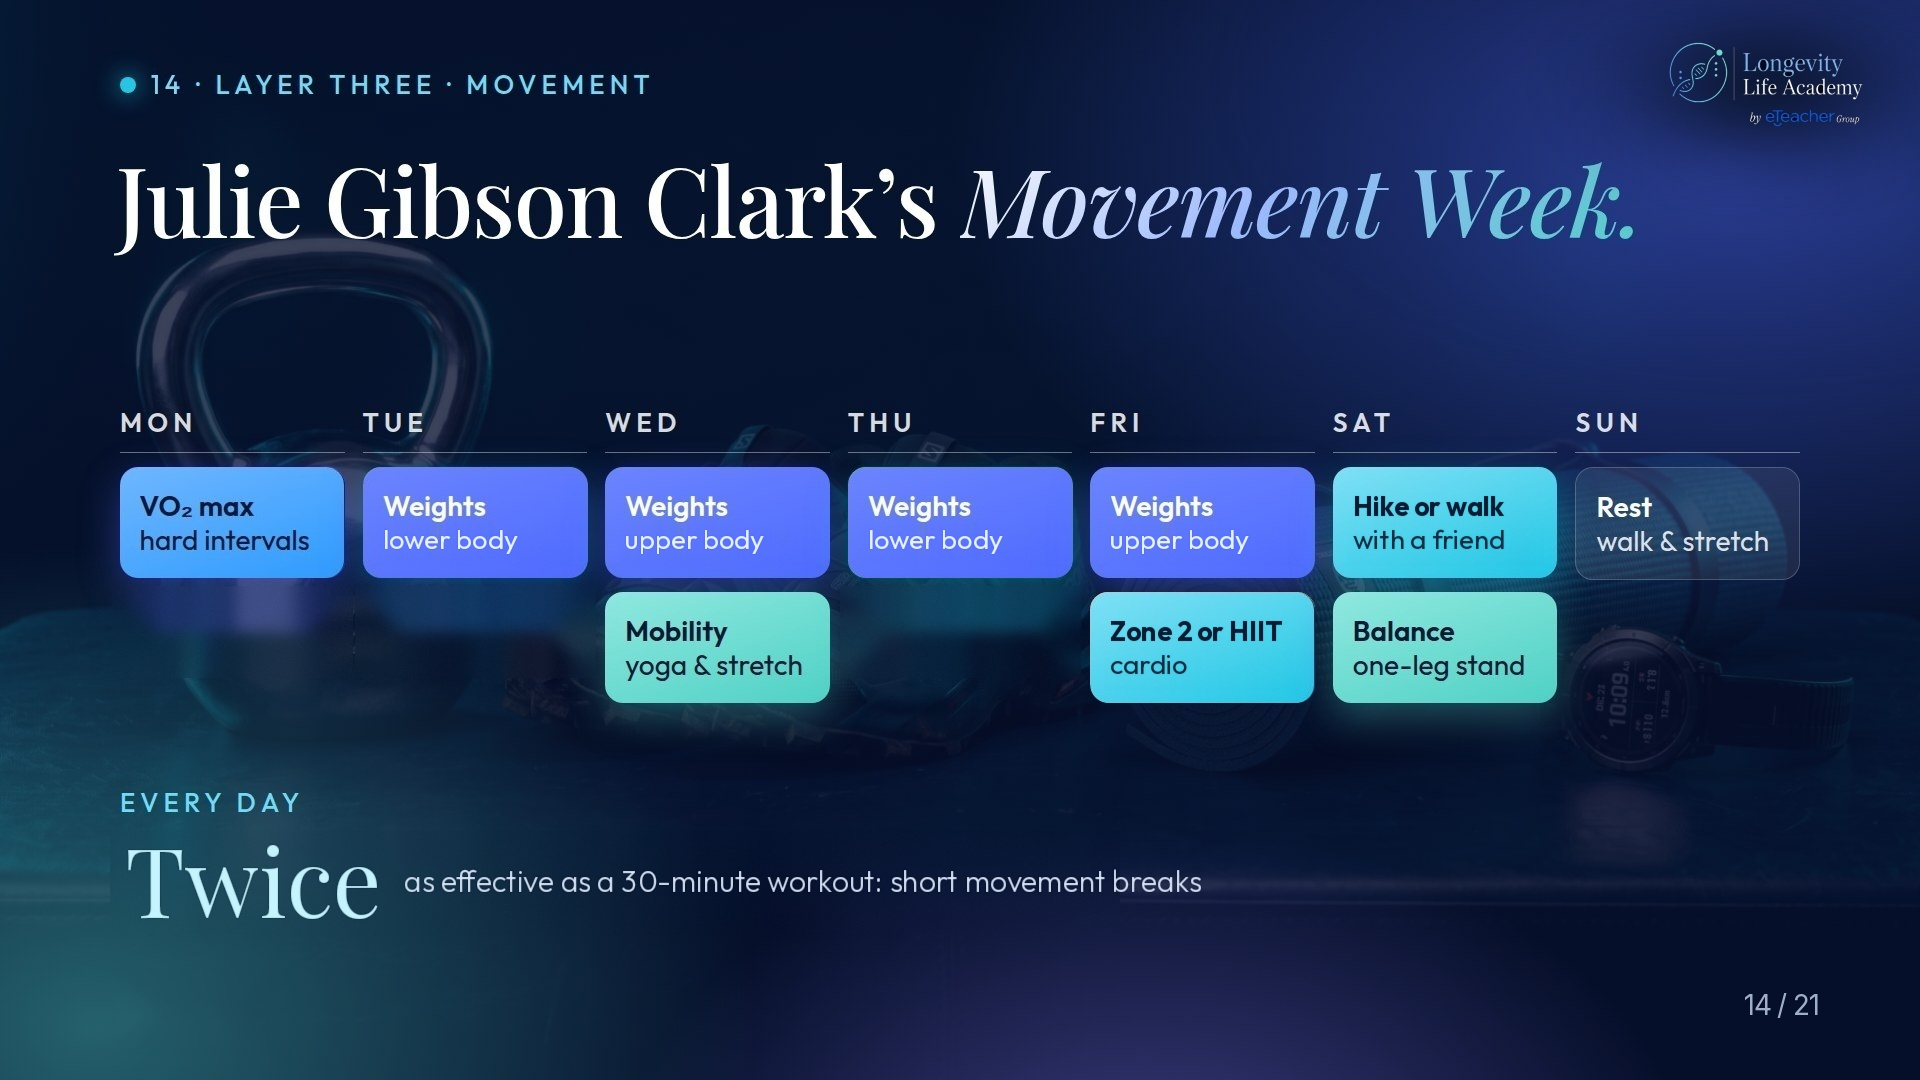
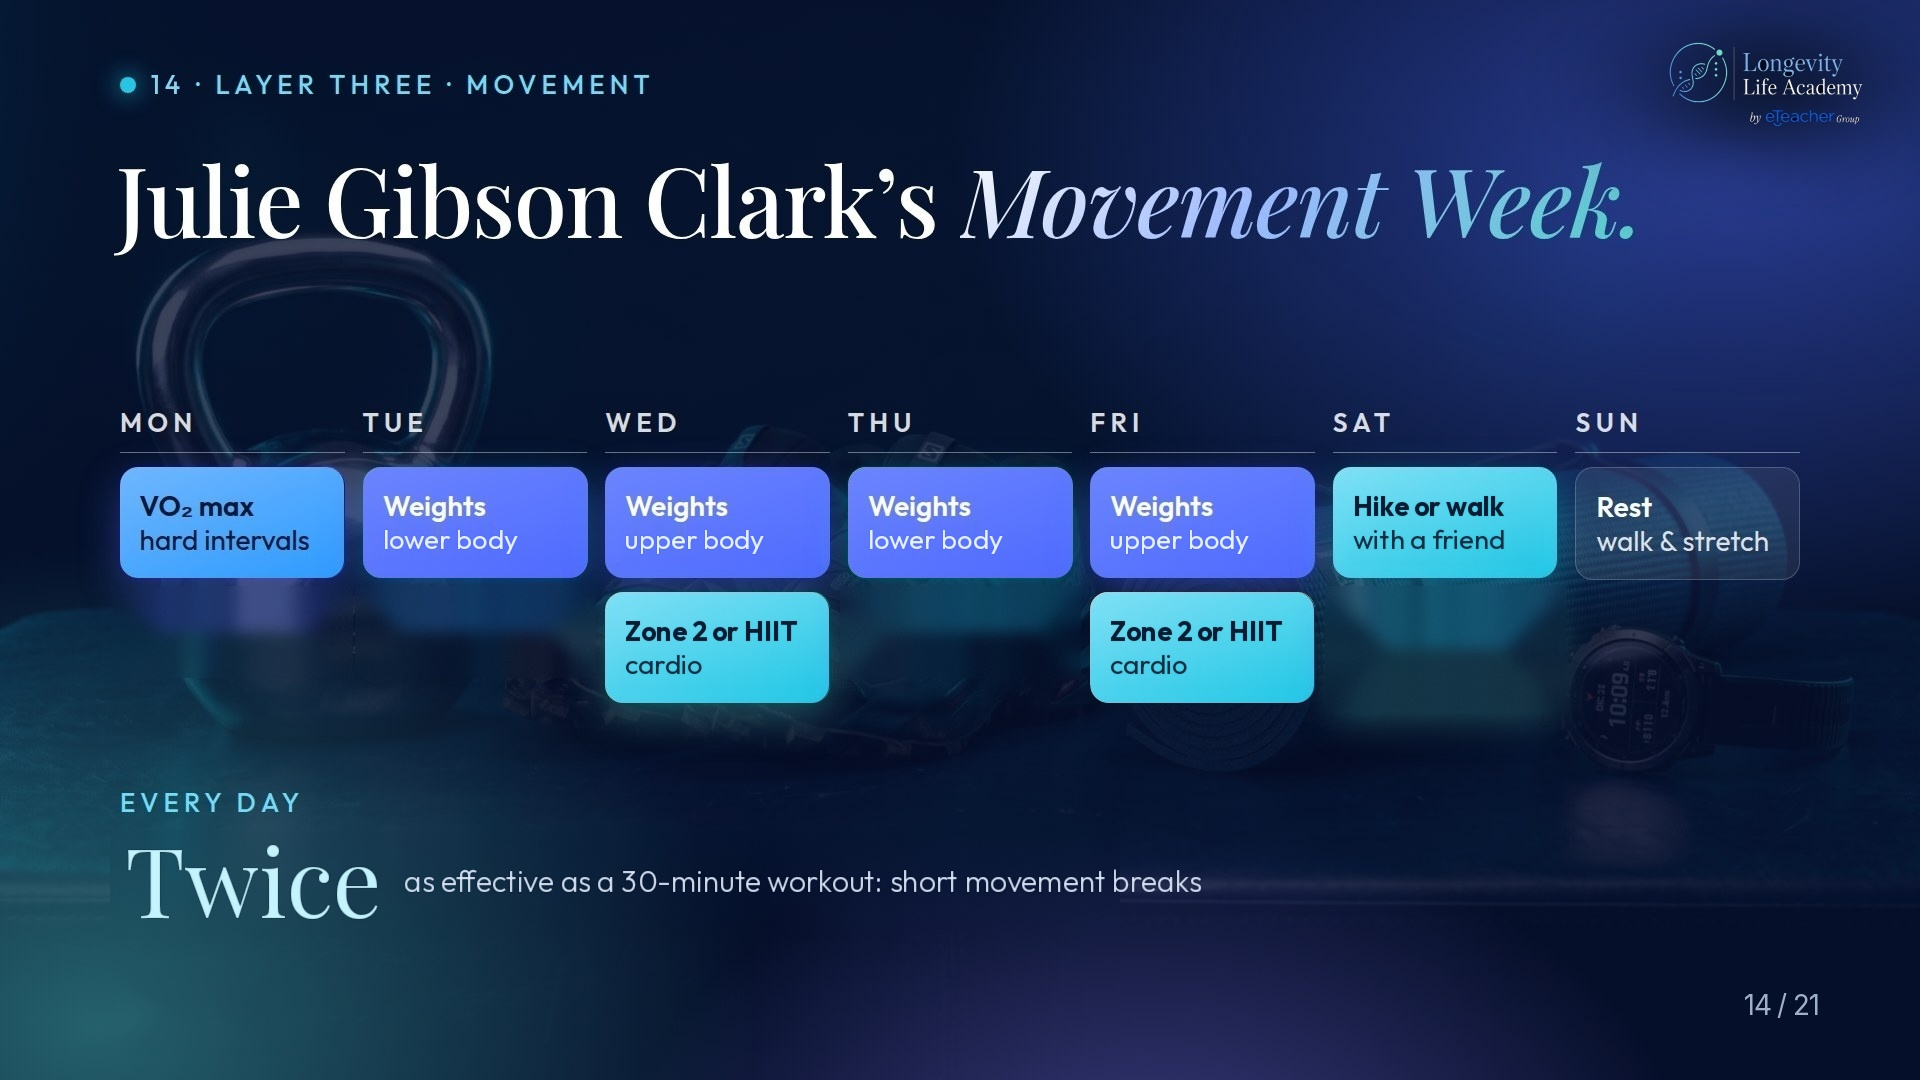
v46 slide 14: script-only week (Wed Zone 2 or HIIT back, no Mobility/Balance tiles, no sauna)

Changed region(s): [[0.6875, 0.55, 0.8125, 0.6722], [0.3125, 0.55, 0.4375, 0.6722]]

diff --git a/slide-canvas/v46/corrections.js b/slide-canvas/v46/corrections.js
@@ -10,25 +10,25 @@ function change(n,src,title,note){
 function noOptions(n){slot(n).querySelector('.opts')?.remove();}
 
 // V45 renumbered copies of the original images (only the baked-in counter changed).
-change(2,'assets/n02-why.jpg?v=v46f');
-change(3,'assets/n03-dunedin.jpg?v=v46f');
-change(4,'assets/n04-cake.jpg?v=v46f');
-change(5,'assets/n05-icing.jpg?v=v46f');
-change(6,'assets/n06-menopause.jpg?v=v46f');
-change(7,'assets/n07-bridge.jpg?v=v46f');
-change(11,'assets/n11-sugar.jpg?v=v46f');
-change(20,'assets/n19-cake.jpg?v=v46f');
-change(21,'assets/n20-why.jpg?v=v46f');
-change(1,'assets/n01-title.jpg?v=v46f',null,'Say: “This is not medical advice. Please talk to your doctor.” Then move to the next slide.');
-change(8,'assets/n08-sleep.jpg?v=v46f',"I'll sleep when I die.",'Said the person aging at twice the normal speed. Sleep is the repair shift, followed by the night timeline.');
+change(2,'assets/n02-why.jpg?v=v46g');
+change(3,'assets/n03-dunedin.jpg?v=v46g');
+change(4,'assets/n04-cake.jpg?v=v46g');
+change(5,'assets/n05-icing.jpg?v=v46g');
+change(6,'assets/n06-menopause.jpg?v=v46g');
+change(7,'assets/n07-bridge.jpg?v=v46g');
+change(11,'assets/n11-sugar.jpg?v=v46g');
+change(20,'assets/n19-cake.jpg?v=v46g');
+change(21,'assets/n20-why.jpg?v=v46g');
+change(1,'assets/n01-title.jpg?v=v46g',null,'Say: “This is not medical advice. Please talk to your doctor.” Then move to the next slide.');
+change(8,'assets/n08-sleep.jpg?v=v46g',"I'll sleep when I die.",'Said the person aging at twice the normal speed. Sleep is the repair shift, followed by the night timeline.');
 noOptions(8);
 slot(9).remove();
 slot(12).remove();
-change(10,'assets/n10-plate.jpg?v=v46f',null,'The plate illustrates Julie’s script: protein is the floor, fiber is the lever, whole food is the default. Her five personal rules stay on screen.');
+change(10,'assets/n10-plate.jpg?v=v46g',null,'The plate illustrates Julie’s script: protein is the floor, fiber is the lever, whole food is the default. Her five personal rules stay on screen.');
 const food=slot(10).cloneNode(true);
 food.id='s10-food';
 food.querySelector('.num').textContent='10A';
-food.querySelector('.main').src='assets/n09-food.jpg?v=v46f';food.querySelector('h2').textContent='Food.';food.querySelector('textarea').dataset.t='Food.';
+food.querySelector('.main').src='assets/n09-food.jpg?v=v46g';food.querySelector('h2').textContent='Food.';food.querySelector('textarea').dataset.t='Food.';
 food.querySelector('.why').textContent='Food foundations. Claude B, Protocol, slide 9. Followed by Julie’s plate.';
 food.querySelector('.opts')?.remove();
 food.querySelector('label').htmlFor='c10-food';
@@ -37,23 +37,23 @@ food.querySelector('textarea').dataset.n='10-food';
 food.querySelector('.saved').id='v10-food';
 slot(10).before(food);
 noOptions(10);
-change(13,'assets/n12-sameage.jpg?v=v46f',null,'Selected option 2: the two people, side by side.');
+change(13,'assets/n12-sameage.jpg?v=v46g',null,'Selected option 2: the two people, side by side.');
 noOptions(13);
-change(14,'assets/n13-movement.jpg?v=v46f',null,'Weights, VO2 max, Zone 2 (two people walking and talking), mobility and balance.');
-change(15,'assets/n14-movement-week.jpg?v=v46f',"Julie Gibson Clark’s Movement Week.",'Movement week, Claude B, Protocol, slide 13. Julie to update. The full protocol follows after the stress slide.');
+change(14,'assets/n13-movement.jpg?v=v46g',null,'Weights, VO2 max, Zone 2 (two people walking and talking), mobility and balance.');
+change(15,'assets/n14-movement-week.jpg?v=v46g',"Julie Gibson Clark’s Movement Week.",'Movement week, Claude B, Protocol, slide 13. Julie to update. The full protocol follows after the stress slide.');
 noOptions(15);
 
-change(16,'assets/n15-stress.jpg?v=v46f',null,'Layer four. Stress, your cortisol story, and the physiological sigh.');
+change(16,'assets/n15-stress.jpg?v=v46g',null,'Layer four. Stress, your cortisol story, and the physiological sigh.');
 
-change(17,'assets/n16-protocol.jpg?v=v46f',null,'Selected Claude B, Protocol, slide 15.');
+change(17,'assets/n16-protocol.jpg?v=v46g',null,'Selected Claude B, Protocol, slide 15.');
 noOptions(17);
-change(18,'assets/n17-notebook.jpg?v=v46f');
-change(19,'assets/n18-testing.jpg?v=v46f',null,'Selected option 2, with a testing-related background, three distinctly colored cards and DunedinPACE in the baseline-testing list.');
+change(18,'assets/n17-notebook.jpg?v=v46g');
+change(19,'assets/n18-testing.jpg?v=v46g',null,'Selected option 2, with a testing-related background, three distinctly colored cards and DunedinPACE in the baseline-testing list.');
 noOptions(19);
 const closing=slot(21).cloneNode(true);
 closing.id='s22';
 closing.querySelector('h2').textContent='One takeaway. Take action.';
-closing.querySelector('.main').src='assets/n21-takeaway.png?v=v46f';
+closing.querySelector('.main').src='assets/n21-takeaway.png?v=v46g';
 closing.querySelector('.main').alt='One takeaway. Take action.';
 closing.querySelector('.why').textContent='Closing slide. Exact original image.';
 closing.querySelector('.opts')?.remove();

diff --git a/slide-canvas/v46/index.html b/slide-canvas/v46/index.html
@@ -65,7 +65,7 @@ textarea:focus{outline:none;border-color:#006EFF;box-shadow:0 0 0 3px rgba(0,110
 <button id="send" class="btn p" onclick="sendAll()">Send my comments</button>
 <div id="lb" onclick="this.classList.remove('on')"><img id="lbimg" src="" alt=""><div class="x">Close</div></div>
 <div id="play"><img id="pimg" src="" alt=""><div class="x" onclick="stopPlay()">Close, Esc</div><div class="c" id="pc"></div></div>
-<script src="corrections.js?v=20261027-v46f"></script>
+<script src="corrections.js?v=20261027-v46g"></script>
 <script>
 const P=allSlots.map(s=>s.querySelector('img.main').getAttribute('src'));let k=0;
 const T=[...document.querySelectorAll('textarea')];

diff --git a/slide-canvas/v46/build-v46-edits.py b/slide-canvas/v46/build-v46-edits.py
@@ -203,7 +203,7 @@ if want('14'):
         im=vfill(im,(x0+14,y0+22,x0+TW-14,y0+h-12),k=6,sx=1.0)
         return T(im,[(x0+20,y0+49,t1,TF,c1,'ls'),(x0+20,y0+82,t2,SF,c2,'ls')],blur=0.4)
     # sauna / mobility / balance tiles out (rebuild the dark photo background behind them)
-    for x0,h in ((COLX[0],78),(COLX[1],78),(COLX[3],78)):
+    for x0,h in ((COLX[0],78),(COLX[1],78),(COLX[3],78),(COLX[5],111)):
         im=bg_restore(im,(x0-8,Y2-6,x0+TW+8,Y2+h+8))
     # row 1
     im=tile_copy(im,P,COLX[1],Y1,COLX[0],Y1)                      # Mon: VO2 max (the existing VO2 tile)
@@ -215,7 +215,7 @@ if want('14'):
     im=sub(im,COLX[4],Y1,111,'upper body',WS)                     # Fri
     im=both(im,COLX[5],Y1,111,'Hike or walk','with a friend',DT,DTS)   # Sat
     # row 2: Zone 2 or HIIT cardio on Wed and Fri (the existing teal Zone 2 tile)
-    for x0 in (COLX[4],):
+    for x0 in (COLX[2],COLX[4]):
         im=tile_copy(im,P,COLX[3],Y1,x0,Y2)
         im=both(im,x0,Y2,111,'Zone 2 or HIIT','cardio',DT,DTS)
     # claim line
